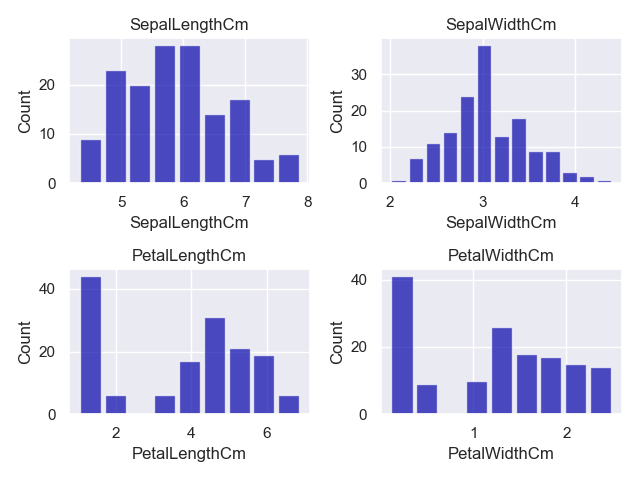
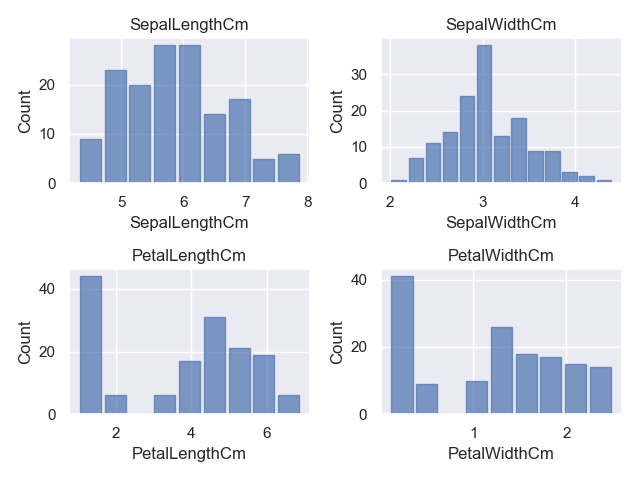
Updating Sections NumPy, Matplotlib and Histogram of all Variables (Summary, formatting of graph)

diff --git a/analysis.py b/analysis.py
@@ -65,7 +65,7 @@ new_iris = iris[["SepalLengthCm", "SepalWidthCm", "PetalLengthCm", "PetalWidthCm
 f,a = plt.subplots(2,2) # defines subplot display structure
 a = a.ravel() # a = array
 for idx,ax in enumerate(a):
-    ax.hist(new_iris.iloc[:,idx], bins='auto', color='#0504aa',alpha=0.7, rwidth=0.85) 
+    ax.hist(new_iris.iloc[:,idx], bins='auto', color='#0504aa', alpha=0.7, rwidth=0.85, facecolor='C0', edgecolor='C0') # https://www.pythonprogramming.in/plot-histogram-with-specific-color-edge-color-and-line-width.html
     ax.set_title(new_iris.columns[idx])
     ax.set_ylabel('Count') # https://stackoverflow.com/questions/53311685/difference-between-ax-set-xlabel-and-ax-xaxis-set-label-in-matplotlib-3-0-1
     ax.set_xlabel(new_iris.columns[idx])

diff --git a/README.md b/README.md
@@ -66,15 +66,15 @@ The dataset contains values of 50 flowers of the three flower species *“Iris s
 
 ### Python Analytics tool 
 
-Python is a programming language created
+Python is a programming language created for scientific computing tasks, which includes the analysis and visualisation of datasets. Originally the programming language was not designed for this tasks but due to the large active ecosystem of third party packages such as NumPy, Pandas
 
 #### Libraries 
 
-The following libraries were used in this project:    
+The following libraries were imported in this project:    
 
 ```python
    import pandas as pd 
-   import numpy as np
+  # import numpy as np
    import matplotlib.pyplot as plt 
    import seaborn as sns 
 ```
@@ -87,13 +87,13 @@ This project uses the library to take data directly from the csv file uploaded. 
 
 <div align="justify">
 
-***numPy*** stands for "Numberical Python" and is the library that pandas, matplotlib and Scikit-learn are build on. It is not as default installed an therefore has to be added. This has been done at the start of this module via Anaconda. 
+***numPy*** stands for "Numberical Python" and is the library that pandas, matplotlib and Scikit-learn are build on. It is not as default installed an therefore has to be added. This has been done at the start of this module via Anaconda. It is used for the manipulation of Python objects also called multi-dimensional array-based data and is the main package for scientific computing with Python. The arrays include collected values. 
 [5]
 </div>
 
 <div align="justify">
 
-***matplotlib***
+***matplotlib*** is a library used to mimic the functions of MATLAB, which is a programming and numeric computing platform to analyse data, develop algorithms and to create models for example with the build in package Simulink. Each pyplot function does a change to a figure, for example it creates a figure, decorates plots with labels and titles and saves the figure (all examples used in this project).
 
 </div>
 
@@ -120,6 +120,8 @@ Once the data has been downloaded and reviewed for accurracy (rows 150 (data ent
 ### Data Visualisation 
 
 #### Histograms of Variables 
+
+
 
 1. Length of the sepal leaf in cm ("SepalLengthCm")
 
@@ -151,6 +153,8 @@ Code extract for plots 1 - 4
 ```
 
 **Summary of all variables for Sepal Lenght/Width & Petal Length/Width**
+
+<ins>Histograms in Matplotlib:</ins> Wikipedia describs Histograms as an accurate graphical representation of the distribution of numerical data. The histogram was first introduced by Karl Pearson. Basically it consists of multiple bar graph added into one graph. To construct a histogram, it is required to define so called <i>bins</i> which is defined by the range of values devided by the entire range of values into a series of intervals. 
 
 <p align="center">
 <img src = "PNG/Histogram_AllVariables.png" alt = "All Variables counted">
@@ -214,6 +218,10 @@ Advantages of python versus other data analysis programs/tools such as Matlab, S
 
 ### References and Source: 
 [Dataset](https://archive.ics.uci.edu/ml/datasets/Iris)
+[NumPy](https://towardsdatascience.com/a-quick-introduction-to-the-numpy-library-6f61b7dee4db)
+(https://www.google.com/imgres?imgurl=https%3A%2F%2Fi.stack.imgur.com%2FNWTQH.png&imgrefurl=https%3A%2F%2Fstackoverflow.com%2Fquestions%2F66434570%2Fnumpys-shape-function-returns-a-1d-value-for-a-2d-array&tbnid=3mLgD0we3AuveM&vet=12ahUKEwiA7qXdr5vwAhVVVhUIHUNfABEQMygBegUIARC3AQ..i&docid=ZjuYBSiXmg5NpM&w=1440&h=805&q=multi-dimensional%20arrays%20in%20numpy&ved=2ahUKEwiA7qXdr5vwAhVVVhUIHUNfABEQMygBegUIARC3AQ) (not used currently)
+[Matplotlib](https://matplotlib.org/stable/tutorials/introductory/pyplot.html#:~:text=matplotlib.,the%20plot%20with%20labels%2C%20etc.)
+[Hue](https://en.wikipedia.org/wiki/Hue)
 
 Books references: 
 Data analysis of Scatterplots: https://books.google.ie/books?id=EvGCsYeOFNwC&pg=PA46&dq=correct+analysis+iris+dataset+scatter+plot&hl=en&sa=X&ved=2ahUKEwjOyZ-ZrZTwAhWaRhUIHQ4_BFEQ6AEwAXoECAMQAg#v=onepage&q=correct%20analysis%20iris%20dataset%20scatter%20plot&f=false  
